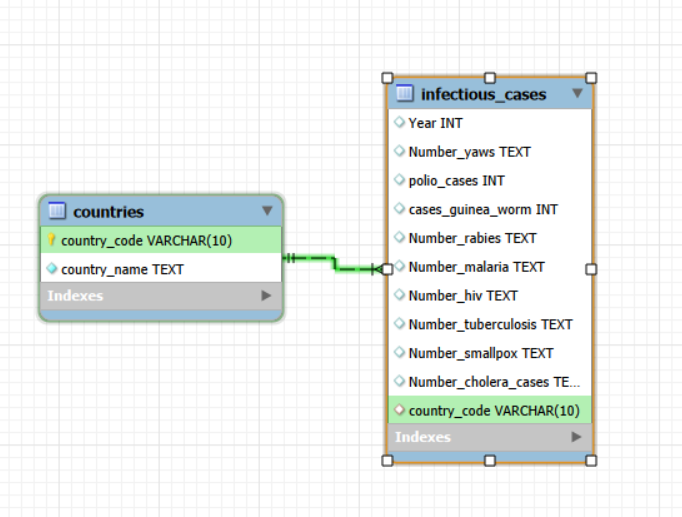
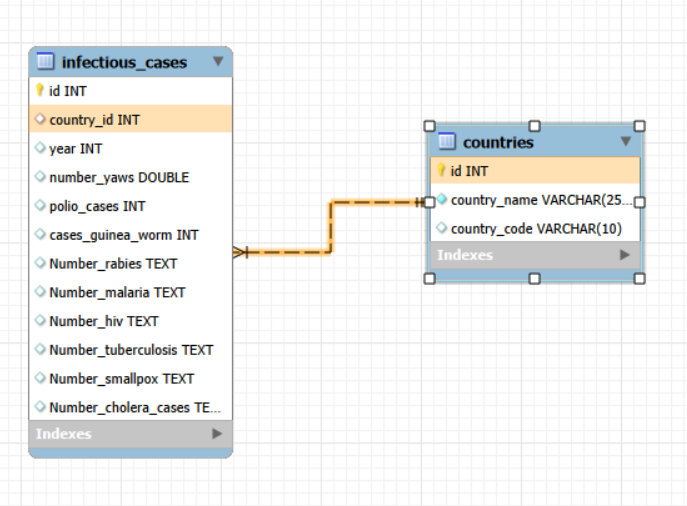
fix data

diff --git a/README.md b/README.md
@@ -6,40 +6,55 @@ use pandemic;
 
 -- 2-----------------------
 
-CREATE TABLE countries (
-country_code varchar(10) primary key not null,
-country_name text not null
+CREATE TABLE entities (
+id INT AUTO_INCREMENT PRIMARY KEY,
+country_name VARCHAR(255) NOT NULL,
+country_code VARCHAR(10) UNIQUE
 );
 
-insert into countries (country_code, country_name)
+insert into countries (country_name, country_code)
 select distinct Code, Entity
 from infectious_cases;
 
 select \* from infectious_cases;
 ![](./img/P2_cound_rows.png)
 
-alter table infectious_cases
-modify Code varchar(10);
+CREATE TABLE infectious_cases_normalized (
+id INT AUTO_INCREMENT PRIMARY KEY,
+country_id INT,
+year INT,
+number_yaws DOUBLE,
+polio_cases INT,
+cases_guinea_worm INT,
+--
+--
+FOREIGN KEY (country_id) REFERENCES country(id)
+);
 
-alter table infectious_cases
-ADD CONSTRAINT fk_country
-FOREIGN KEY (country_code) REFERENCES countries(country_code);
+INSERT INTO infectious_cases_normalized (country_id, year, number_yaws, polio_cases, cases_guinea_worm)
+SELECT
+c.id,
+ic.Year,
+ic.Number_yaws,
+ic.polio_cases,
+ic.cases_guinea_worm
+--
+--
+FROM infectious_cases ic
+JOIN countries c ON ic.Entity = c.country_name AND ic.Code = c.country_code;
+
+UPDATE infectious_cases SET Code = NULL WHERE Code = '';
+
+DROP TABLE infectious_cases;
+
+RENAME TABLE infectious_cases_normalized TO infectious_cases;
 
 ![](./img/P2_EER_Diagram.png)
-
-ALTER TABLE infectious_cases
-CHANGE Code country_code VARCHAR(10);
-
-alter table infectious_cases
-drop Entity;
-
-alter table infectious_cases
-add column id int primary key auto_increment;
 
 -- 3-----------------------
 
 SELECT
-c.country_code,
+c.id,
 c.country_name,
 avg(ic.Number_rabies) as avg_number_rabies,
 min(ic.Number_rabies) as min_number_rabies,
@@ -47,10 +62,10 @@ max(ic.Number_rabies) as max_number_rabies,
 sum(ic.Number_rabies) as sum_number_rabies
 FROM countries c
 JOIN infectious_cases ic
-ON c.country_code = ic.country_code
+ON c.id = ic.country_id
 where ic.Number_rabies is not null
 and trim(coalesce(ic.Number_rabies, '')) <>''
-group by c.country_code, c.country_code
+group by c.country_code, c.id
 order by avg_number_rabies DESC
 limit 10;
 
